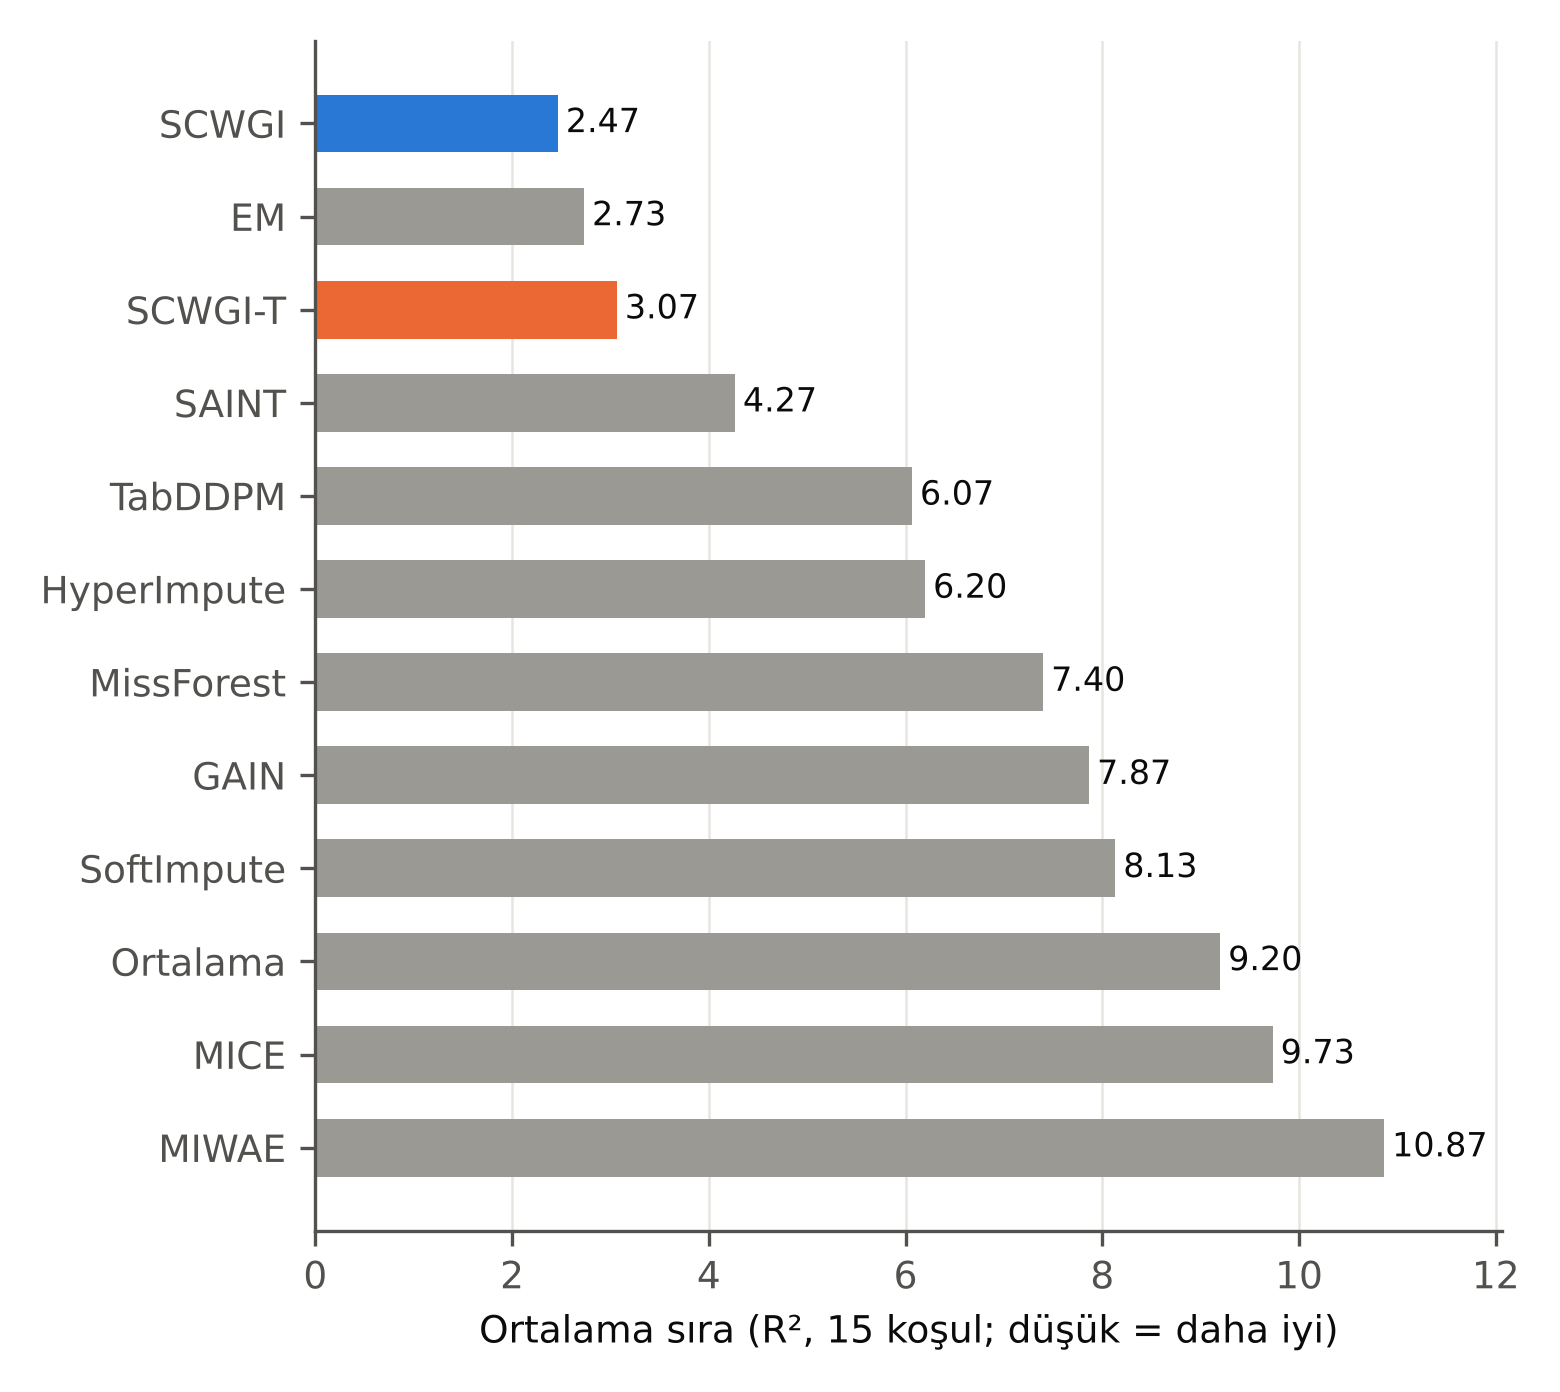
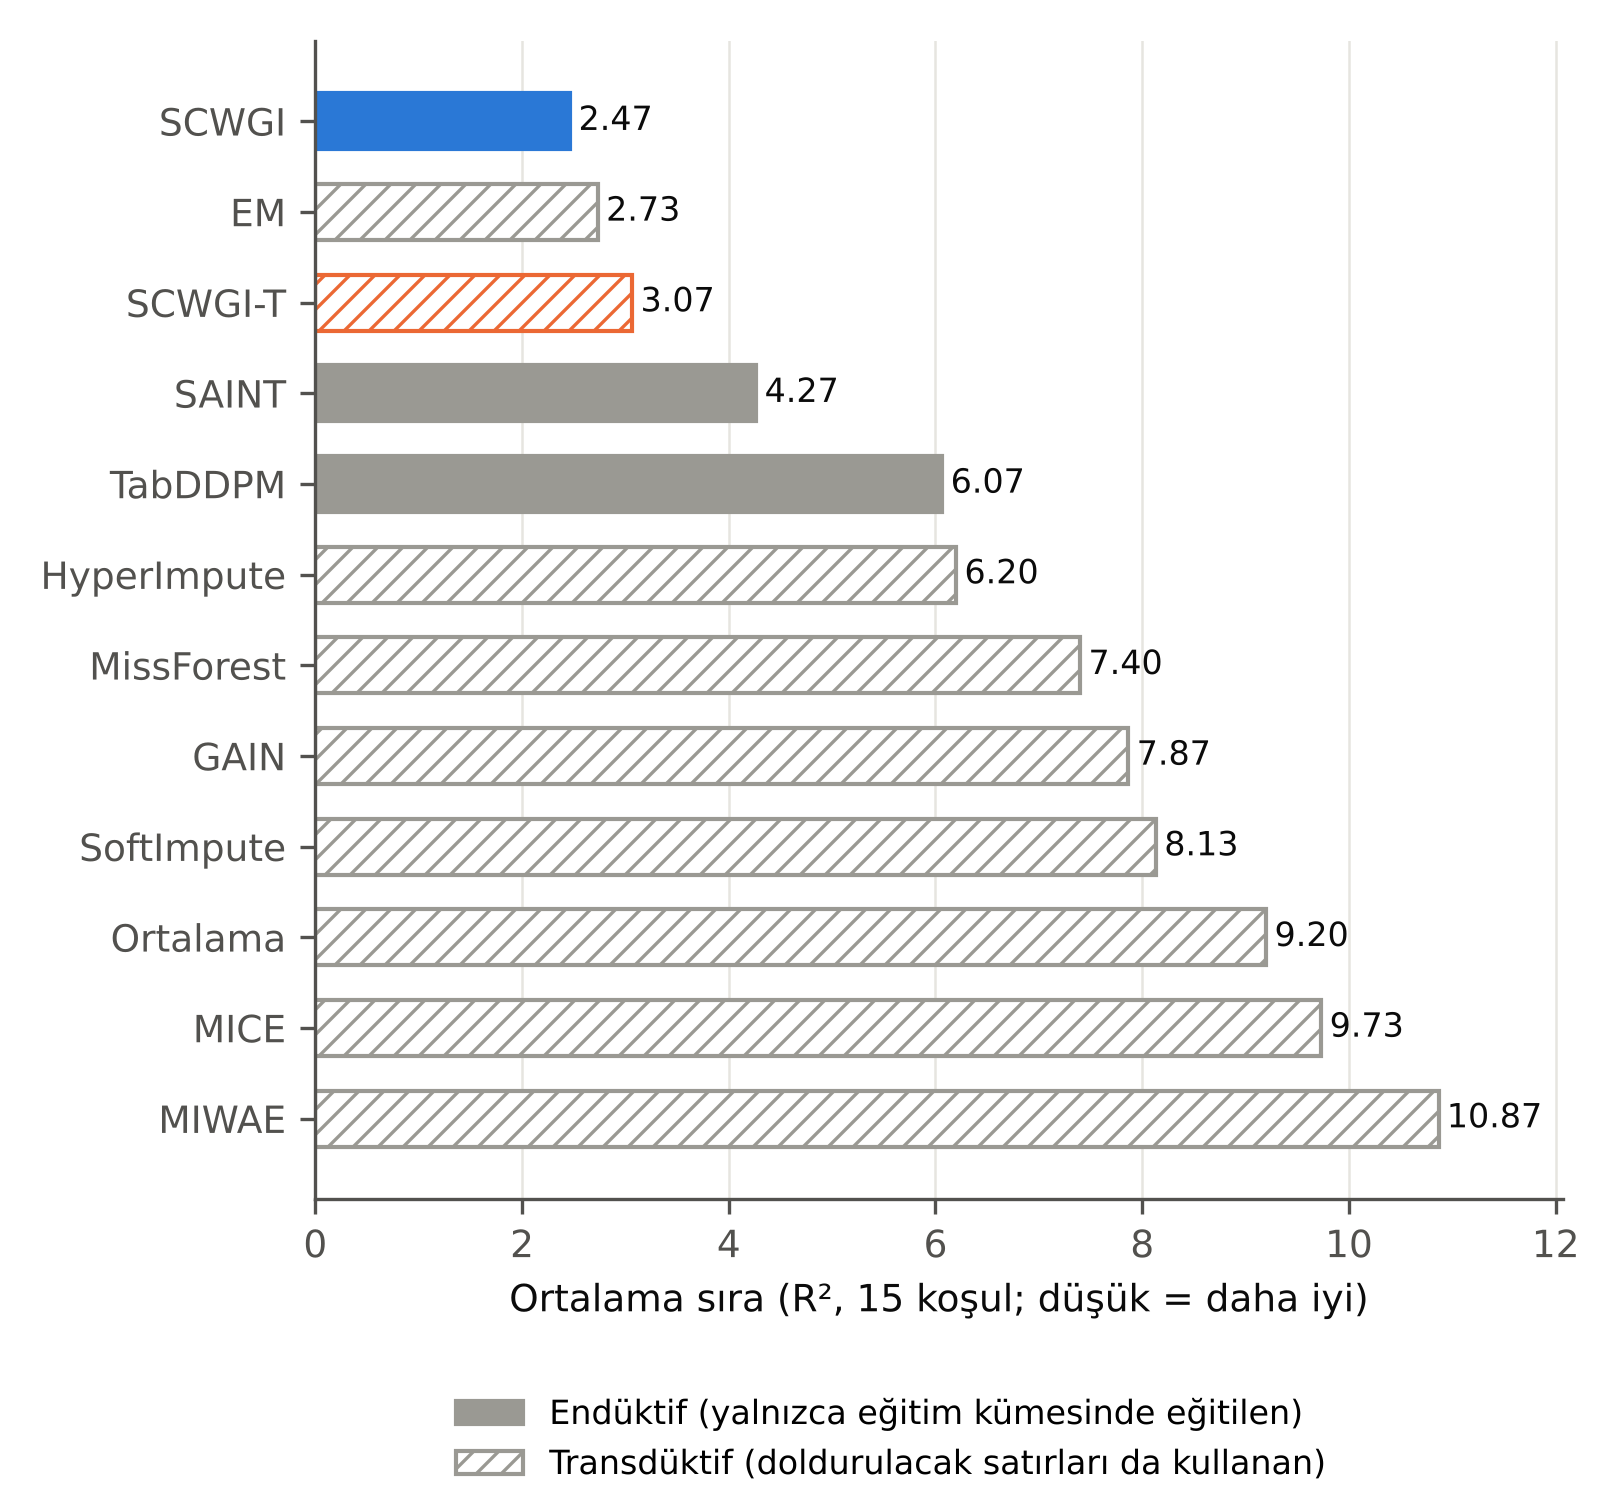
Single author; protocol notes and figures aligned with the article (SCWGI-V2)
- README: author Cafer Budak, full article title
- experiments/README: CWRU records are 48 kHz; exact MAR/MNAR generators,
  effective missing rates and hidden-cell counts; Pima zero coding;
  SAINT row attention over test rows at inference; Table 2 numbering
- Figure 2: inductive (solid) vs transductive (hatched) methods
- Figure 4: right-panel title uses s (as in the text)

Claude-Session: https://claude.ai/code/session_015bf4hXmCVigAaDAMqpjCgF

Changed region(s): [[0.0308, 0.0309, 0.9846, 0.9885], [0.9538, 0.8958, 0.9846, 0.9267]]

diff --git a/experiments/make_figures.py b/experiments/make_figures.py
@@ -1,7 +1,7 @@
 """make_figures.py — Makale şekilleri (300 dpi PNG, yayın için açık zemin).
 Şekil 2: 15 koşul üzerinde ortalama R² sırası (düşük = iyi), yöntem başına.
 Şekil 3: bileşen ablasyonu — tam SCWGI'ye göre eşleştirilmiş ΔR², veri seti bazında.
-Şekil 4: %90 aralık kapsaması — ham Gauss, bölünmüş konformal, Mondrian; veri seti bazında ve s_G üçte-birliklerine göre.
+Şekil 4: %90 aralık kapsaması — ham Gauss, bölünmüş konformal, Mondrian; veri seti bazında ve s üçte-birliklerine göre.
 Renk: SCWGI ailesi kategorik 1–2. slot (mavi, turuncu); diğer yöntemler nötr gri (vurgu ilkesi).
 """
 from pathlib import Path
@@ -22,15 +22,23 @@ DS_TR = {"BreastCancer": "Meme Kanseri", "GoldPrice": "Altın", "CWRU": "CWRU", 
 def fig_ranks():
     R2 = pd.read_csv(R / "summary/R2_kosul_tam.csv", index_col=[0, 1, 2])   # yuvarlanmamış ortalamalar (sıra bağı yapay oluşmasın)
     rank = R2.rank(1, ascending=False).mean().sort_values(ascending=False)
-    fig, ax = plt.subplots(figsize=(5.2, 0.32 * len(rank) + 0.8))
-    cols = [BLUE if m == "SCWGI" else ORANGE if m == "SCWGI-T" else GRAY for m in rank.index]
-    ax.barh(range(len(rank)), rank.values, color=cols, height=0.62)
-    for i, v in enumerate(rank.values):
+    # Düz çubuk: yalnızca eğitim kümesinde eğitilen (endüktif) yöntemler; taralı: transdüktif yöntemler
+    from matplotlib.patches import Patch
+    inductive = {"SCWGI", "SAINT", "TabDDPM"}
+    fig, ax = plt.subplots(figsize=(5.4, 0.32 * len(rank) + 1.2))
+    plt.rcParams["hatch.linewidth"] = 0.8
+    for i, (m, v) in enumerate(rank.items()):
+        col = BLUE if m == "SCWGI" else ORANGE if m == "SCWGI-T" else GRAY
+        ind = m in inductive
+        ax.barh(i, v, height=0.62, color=col if ind else "white", edgecolor=col, linewidth=1.0, hatch=None if ind else "////")
         ax.text(v + 0.08, i, f"{v:.2f}", va="center", color=INK, fontsize=8)
     ax.set_yticks(range(len(rank))); ax.set_yticklabels(rank.index)
     ax.set_xlabel("Ortalama sıra (R², 15 koşul; düşük = daha iyi)"); ax.set_xlim(0, rank.max() + 1.2)
     ax.xaxis.grid(True, color="#e6e5e0", lw=0.6); ax.set_axisbelow(True)
-    fig.tight_layout(); fig.savefig(O / "sekil2_ortalama_sira.png"); plt.close(fig)
+    handles = [Patch(facecolor=GRAY, edgecolor=GRAY, label="Endüktif (yalnızca eğitim kümesinde eğitilen)"),
+               Patch(facecolor="white", edgecolor=GRAY, hatch="////", label="Transdüktif (doldurulacak satırları da kullanan)")]
+    fig.legend(handles=handles, loc="lower center", ncol=1, frameon=False, fontsize=8, bbox_to_anchor=(0.55, 0.0))
+    fig.tight_layout(rect=(0, 0.1, 1, 1)); fig.savefig(O / "sekil2_ortalama_sira.png"); plt.close(fig)
 
 
 def fig_ablation():
@@ -82,7 +90,7 @@ def fig_calibration():
         axes[0].plot(x + (i - 1) * w, g[col], mk, ms=6, color=colr, label=lab, mec="white", mew=0.8)
     for i, (col, colr, mk) in enumerate((("cov90_conf_yüksek", BLUE, "o"), ("cov90_mond_yüksek", AQUA, "D"))):
         axes[1].plot(x + (i - 0.5) * w, t[col], mk, ms=6, color=colr, mec="white", mew=0.8)
-    for ax, ttl in zip(axes, ("Tüm hücreler", "En belirsiz üçte-bir (yüksek s_G)")):
+    for ax, ttl in zip(axes, ("Tüm hücreler", "En belirsiz üçte-bir (yüksek s)")):
         ax.axhline(0.90, color=INK, lw=0.8, ls="--"); ax.set_xticks(x); ax.set_xticklabels([DS_TR[d] for d in order], fontsize=8)
         ax.set_ylim(0.74, 1.0); ax.set_xlim(-0.6, len(order) - 0.4); ax.set_title(ttl, fontsize=9, color=INK)
         ax.yaxis.grid(True, color="#e6e5e0", lw=0.6); ax.set_axisbelow(True)

diff --git a/experiments/README.md b/experiments/README.md
@@ -5,18 +5,23 @@ common protocol:
 
 - random 70 % / 30 % train–test split (seed 0), z-scaling with training statistics;
 - missingness applied to the **test** set only, mask seeds 42, 142, 242, 342, 442;
-- MCAR (each cell hidden independently), MAR (half of the columns are always-observed references; missingness in the
-  other columns increases monotonically with a randomly chosen reference column), MNAR (values below the ρ-th
-  percentile of each column are hidden; deterministic);
+- MCAR (each cell hidden independently with probability ρ); MAR (half of the columns are always-observed references;
+  each other column is linked to a random reference column and row i is hidden with probability
+  p_i = 2ρ · max(0, 1 + x_ref,i) / max_i(1 + x_ref,i), so the effective rate is below ρ); MNAR (values below the
+  ρ-th percentile of each test column are hidden; deterministic, hence the same mask for all five seeds; ties in
+  discrete columns make the effective rate lower than ρ);
 - MAE, RMSE and R² computed on the hidden cells only, in z-scale, pooled over cells.
 
-| Dataset | Conditions |
-|---|---|
-| Breast Cancer (WDBC) | MCAR 10/20/30 % |
-| Gold Price | MCAR 5/10/15 % |
-| CWRU bearing (25 window features) | MCAR 10 % |
-| Diabetes (Pima) | MAR 10/20 % |
-| Fertility | MCAR and MNAR 10/20/30 % |
+| Dataset | Conditions | Hidden cells per condition (mean) |
+|---|---|---|
+| Breast Cancer (WDBC) | MCAR 10/20/30 % | 512 / 1023 / 1537 |
+| Gold Price | MCAR 5/10/15 % | 2096 / 4163 / 6194 |
+| CWRU bearing (25 window features) | MCAR 10 % | 1764 |
+| Diabetes (Pima) | MAR ρ = 0.10/0.20 (effective 2.0 % / 3.8 %) | 37 / 71 |
+| Fertility | MCAR 10/20/30 %; MNAR ρ = 0.10/0.20/0.30 (effective 2.6 / 7.0 / 10.0 %) | MCAR 27 / 57 / 82; MNAR 7 / 19 / 27 |
+
+In the Pima data, zeros in glucose, blood pressure, skin thickness, insulin and BMI denote unmeasured values; the
+original coding is kept and these zeros are treated as observed values.
 
 ## Data
 
@@ -26,7 +31,7 @@ All data files used in the article are included in this repository:
 data/tabular/diabetes.csv              Pima Indians Diabetes (UCI / Kaggle)
 data/tabular/fertility_Diagnosis.csv   UCI Fertility (Gil et al., 2012)
 data/tabular/FINAL_USO.csv             Kaggle "Gold Price Prediction Dataset" (sid321axn)
-data/cwru/*.csv                        CWRU Bearing Data Center, drive-end accelerometer (DE_time), 12 kHz, 1 hp:
+data/cwru/*.csv                        CWRU Bearing Data Center, drive-end accelerometer (DE_time), 48 kHz, 1 hp:
                                        Time_Normal_1_098, B007_1_123, B014_1_190, B021_1_227, IR007_1_110,
                                        IR014_1_175, IR021_1_214, OR007_6_1_136, OR014_6_1_202, OR021_6_1_239
 ```
@@ -47,12 +52,13 @@ Run from the repository root (`python experiments/<script>.py`).
 | `run_deep_baselines.py` | TabDDPM, SAINT → `results/competitors/deep_raw.csv` |
 | `run_ablation.py` | component ablation → `results/ablation/` |
 | `run_calibration.py` | conformal coverage and width → `results/calibration_raw.csv` |
-| `make_results.py` | Table 4 (R²), MAE/RMSE tables, ranks, Friedman and Holm–Wilcoxon tests, timings → `results/summary/` |
+| `make_results.py` | Table 2 (R²), MAE/RMSE tables, ranks, Friedman and Holm–Wilcoxon tests, timings → `results/summary/` |
 | `make_figures.py` | Figures 2–4 → `results/figures/` |
 | `make_figure1.py` | Figure 1 (schematic) → `results/figures/` |
 
 Library baselines and HyperImpute are fitted on the training rows stacked with the masked test rows (these methods are
-transductive by design); SCWGI, TabDDPM and SAINT are trained on the training rows only. SCWGI-T gives SCWGI the same
+transductive by design); SCWGI, TabDDPM and SAINT are trained on the training rows only (at inference SAINT processes the test rows as one
+batch, so its row attention also uses the observed cells of other test rows). SCWGI-T gives SCWGI the same
 information as the transductive baselines. The Sinkhorn plugin was started but not completed (about 4 minutes per
 condition even on Diabetes); its partial file is kept for transparency and is excluded from all summaries.
 

diff --git a/README.md b/README.md
@@ -1,13 +1,14 @@
 # SCWGI — Soft-Cluster Weighted Gaussian Imputer
 
-Code, raw results and figure scripts accompanying the article *"SCWGI: …"* (Terzioğlu & Budak).
+Code, raw results and figure scripts accompanying the article *"SCWGI: Tablo Verilerinde Eksik Değerler için Yumuşak
+Küme Ağırlıklı Gauss Doldurucu ve Konformal Belirsizlik Aralıkları"* (Cafer Budak).
 
 SCWGI imputes missing values in numeric tabular data and returns, for every imputed cell, a point estimate and a
 calibrated prediction interval. It has no gradient-trained component: every setting is chosen by masked
 cross-validation inside the training set, and imputation uses closed-form conditional-Gaussian computations.
 
 1. **Atom indicators.** A feature with at least 11 distinct values whose modal value has relative frequency ≥ 5 %
-   (e.g. zero-inflated clinical measurements) gets an indicator column whose mask is tied to the feature's mask.
+   (e.g. a spike at zero or at a frequent value) gets an indicator column whose mask is tied to the feature's mask.
 2. **Data-adaptive marginal.** Each dataset chooses, by internal masked CV, between a linear (z-score) space and an
    empirical Gaussian-copula space (Gauss–Hermite back-transformation, 32 nodes).
 3. **Soft-cluster weighted conditional Gaussian.** FCM-initialised EM Gaussian mixtures; cluster covariances shrunk
